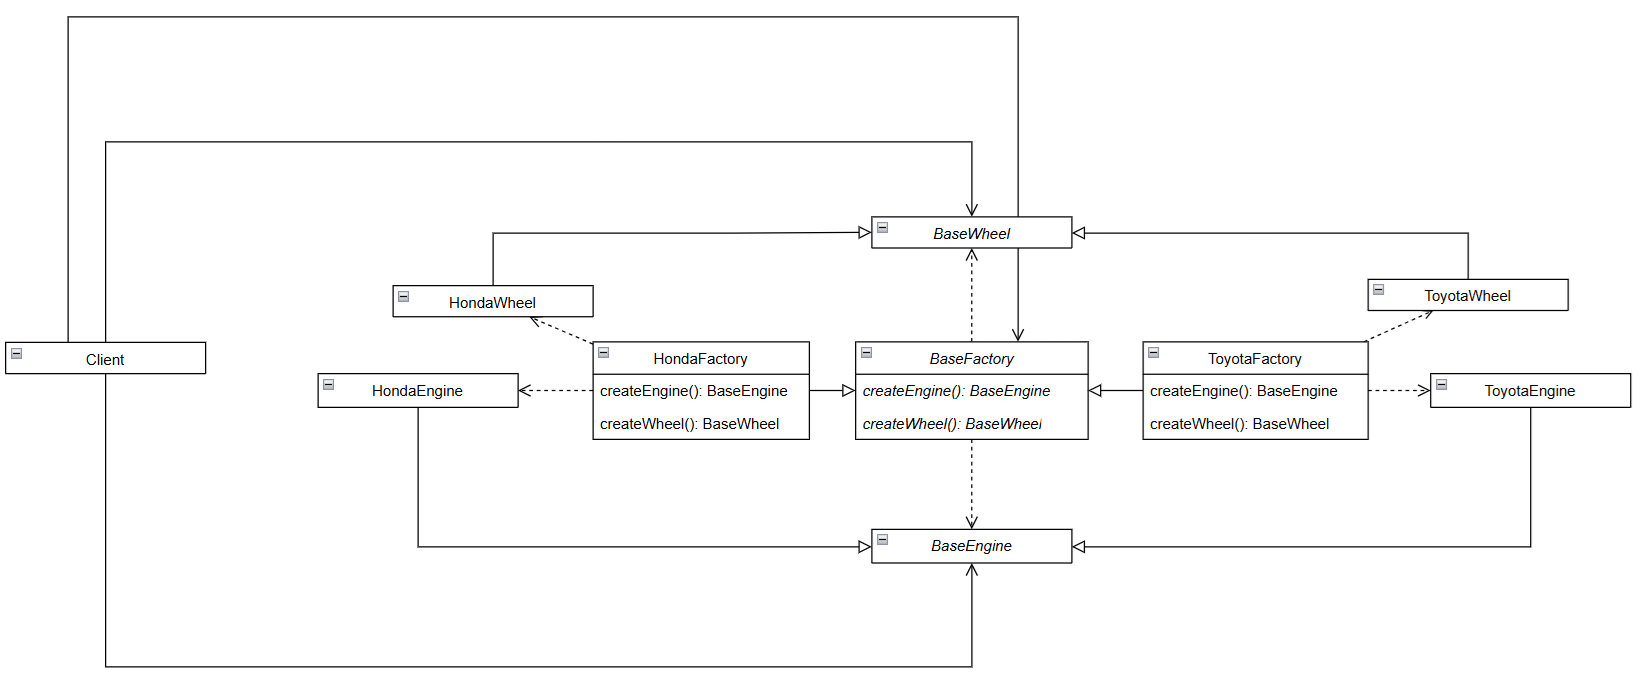
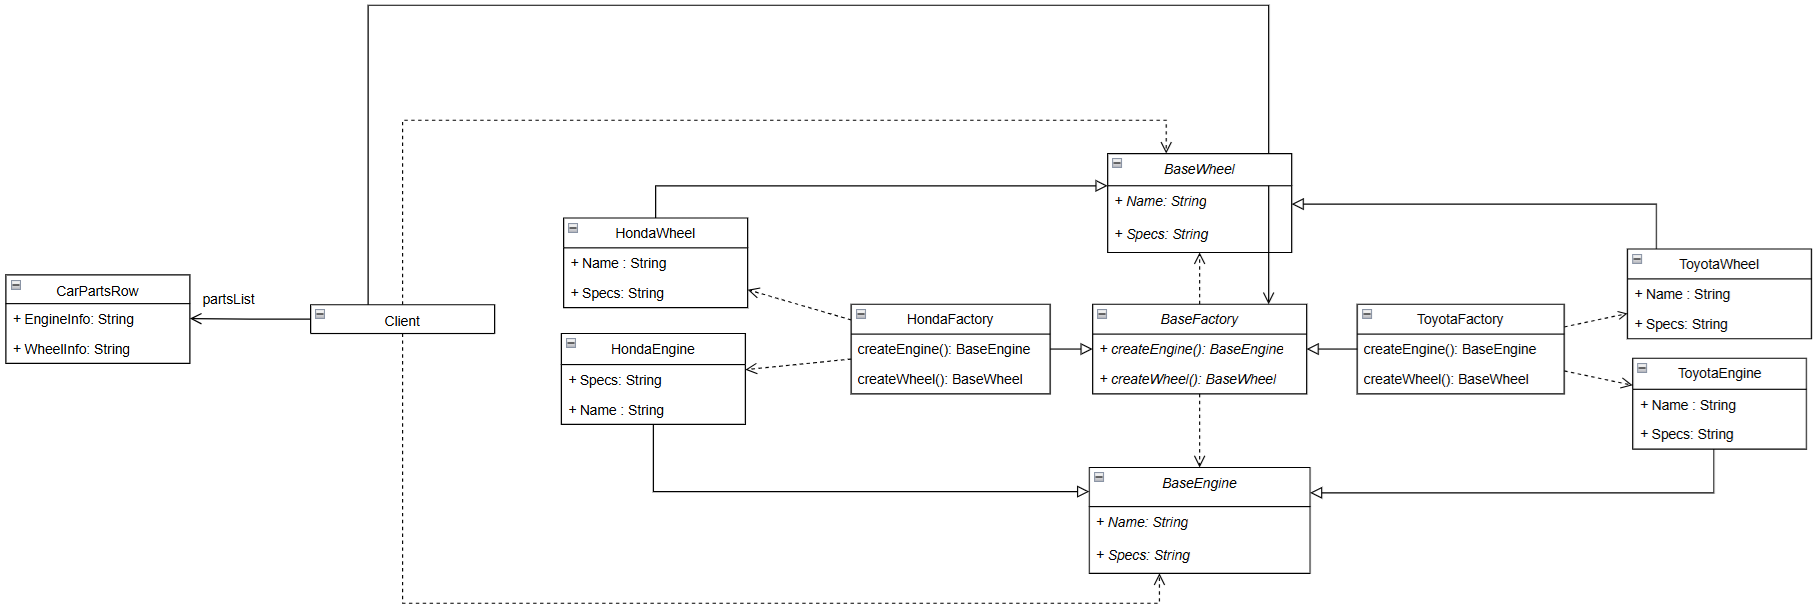
mb done

diff --git a/lab01/lab01_code/Form1.cs b/lab01/lab01_code/Form1.cs
@@ -20,23 +20,23 @@ namespace lab01_code
             public string EngineInfo { get; set; }
             public string WheelInfo { get; set; }
         }
-        abstract class BaseFactory
+        public abstract class BaseFactory
         {
             public abstract BaseEngine createEngine();
             public abstract BaseWheel createWheel();
         }
-        abstract class BaseEngine
+        public abstract class BaseEngine
         {
             public abstract string Name { get; }
             public abstract string Specs { get; }
         }
-        abstract class BaseWheel
+        public abstract class BaseWheel
         {
             public abstract string Name { get; }
             public abstract string Specs { get; }
         }
 
-        class HondaFactory : BaseFactory
+        public class HondaFactory : BaseFactory
         {
             public override BaseEngine createEngine()
             {
@@ -48,7 +48,7 @@ namespace lab01_code
             }
         }
 
-        class ToyotaFactory : BaseFactory
+        public class ToyotaFactory : BaseFactory
         {
             public override BaseEngine createEngine()
             {
@@ -59,30 +59,30 @@ namespace lab01_code
                 return new ToyotaWheel();
             }
         }
-        class ToyotaEngine : BaseEngine
+        public class ToyotaEngine : BaseEngine
         {
 
-            public override string Name => "abobaAT";
-            public override string Specs => "bbobaAT";
+            public override string Name => "3S-FE";
+            public override string Specs => "2.0L, 4-cyl, 140hp";
         }
 
-        class HondaEngine : BaseEngine
+        public class HondaEngine : BaseEngine
         {
-            public override string Name => "abobaAH";
-            public override string Specs => "bbobaAH";
+            public override string Name => "F20C";
+            public override string Specs => "2.0L, 4-cyl, 250hp";
         }
 
-        class ToyotaWheel : BaseWheel
+        public class ToyotaWheel : BaseWheel
         {
 
-            public override string Name => "abobaBT";
-            public override string Specs => "bbobaBT";
+            public override string Name => "Toyota Alloy Wheel";
+            public override string Specs => "16-inch, summer";
         }
 
-        class HondaWheel : BaseWheel
+        public class HondaWheel : BaseWheel
         {
-            public override string Name => "abobaBH";
-            public override string Specs => "bbobaBH";
+            public override string Name => "Honda Steel Wheel";
+            public override string Specs => "15-inch, all-season";
         }
         public Form1()
         {

diff --git a/lab01/lab01_code/Form2.cs b/lab01/lab01_code/Form2.cs
@@ -7,7 +7,6 @@ using System.Linq;
 using System.Text;
 using System.Threading.Tasks;
 using System.Windows.Forms;
-using static System.Windows.Forms.VisualStyles.VisualStyleElement;
 
 namespace lab01_code
 {

diff --git a/lab01/README.md b/lab01/README.md
@@ -12,23 +12,13 @@
 
 Для решения проблемы используется паттерн `Abstract Factory`. 
 
-Паттерн предоставляет интерфейс для создания семейств взаимосвязанных объектов (двигатель и колёса), не специфицируя их конкретные классы. Каждая фабрика соответствует определённому производителю автомобилей и гарантирует создание совместимых деталей. 
+Паттерн предоставляет интерфейс для создания семейств взаимосвязанных объектов (в моем случае это двигатель и колеса). Каждая фабрика соответствует определённому производителю автомобилей и гарантирует создание совместимых деталей.   
 
-Выбор конкретной фабрики делегируется клиентскому коду на основе выбранной марки автомобиля. Основная программа работает только с абстрактными классами (`BaseEngine`, `BaseWheel`), не завися от конкретных реализаций. 
+Выбор фабрики производится на основе выбранной марки автомобился. Программа работает только с абстрактными классами (`BaseEngine` и `BaseWheel`) и не зависит от конкретных реализаций. 
 
-Таким образом, система гарантирует, что все созданные детали будут совместимы в рамках одного производителя, а добавление новой марки автомобилей потребует минимальных изменений в коде.
+Таким образом, есть гарантия того, что все детали будут совместимы в рамках одного производителя, а для добавления новой марки автомобиля не потребует больших изменений в коде.
 
 Диаграмма классов:
 ![диаграмма классов](docs/diagram_white.png)
 
 Базовая фабрика определяет абстрактные методы `createEngine()` и `createWheel()`, которые переопределяются в конкретных фабриках для создания соответствующих деталей.
-
-
-## Реализация
-
-Проект реализован на языке `C#`. 
-
-
-## Вывод
-
-Паттерн `Abstract Factory` внедрен успешно
